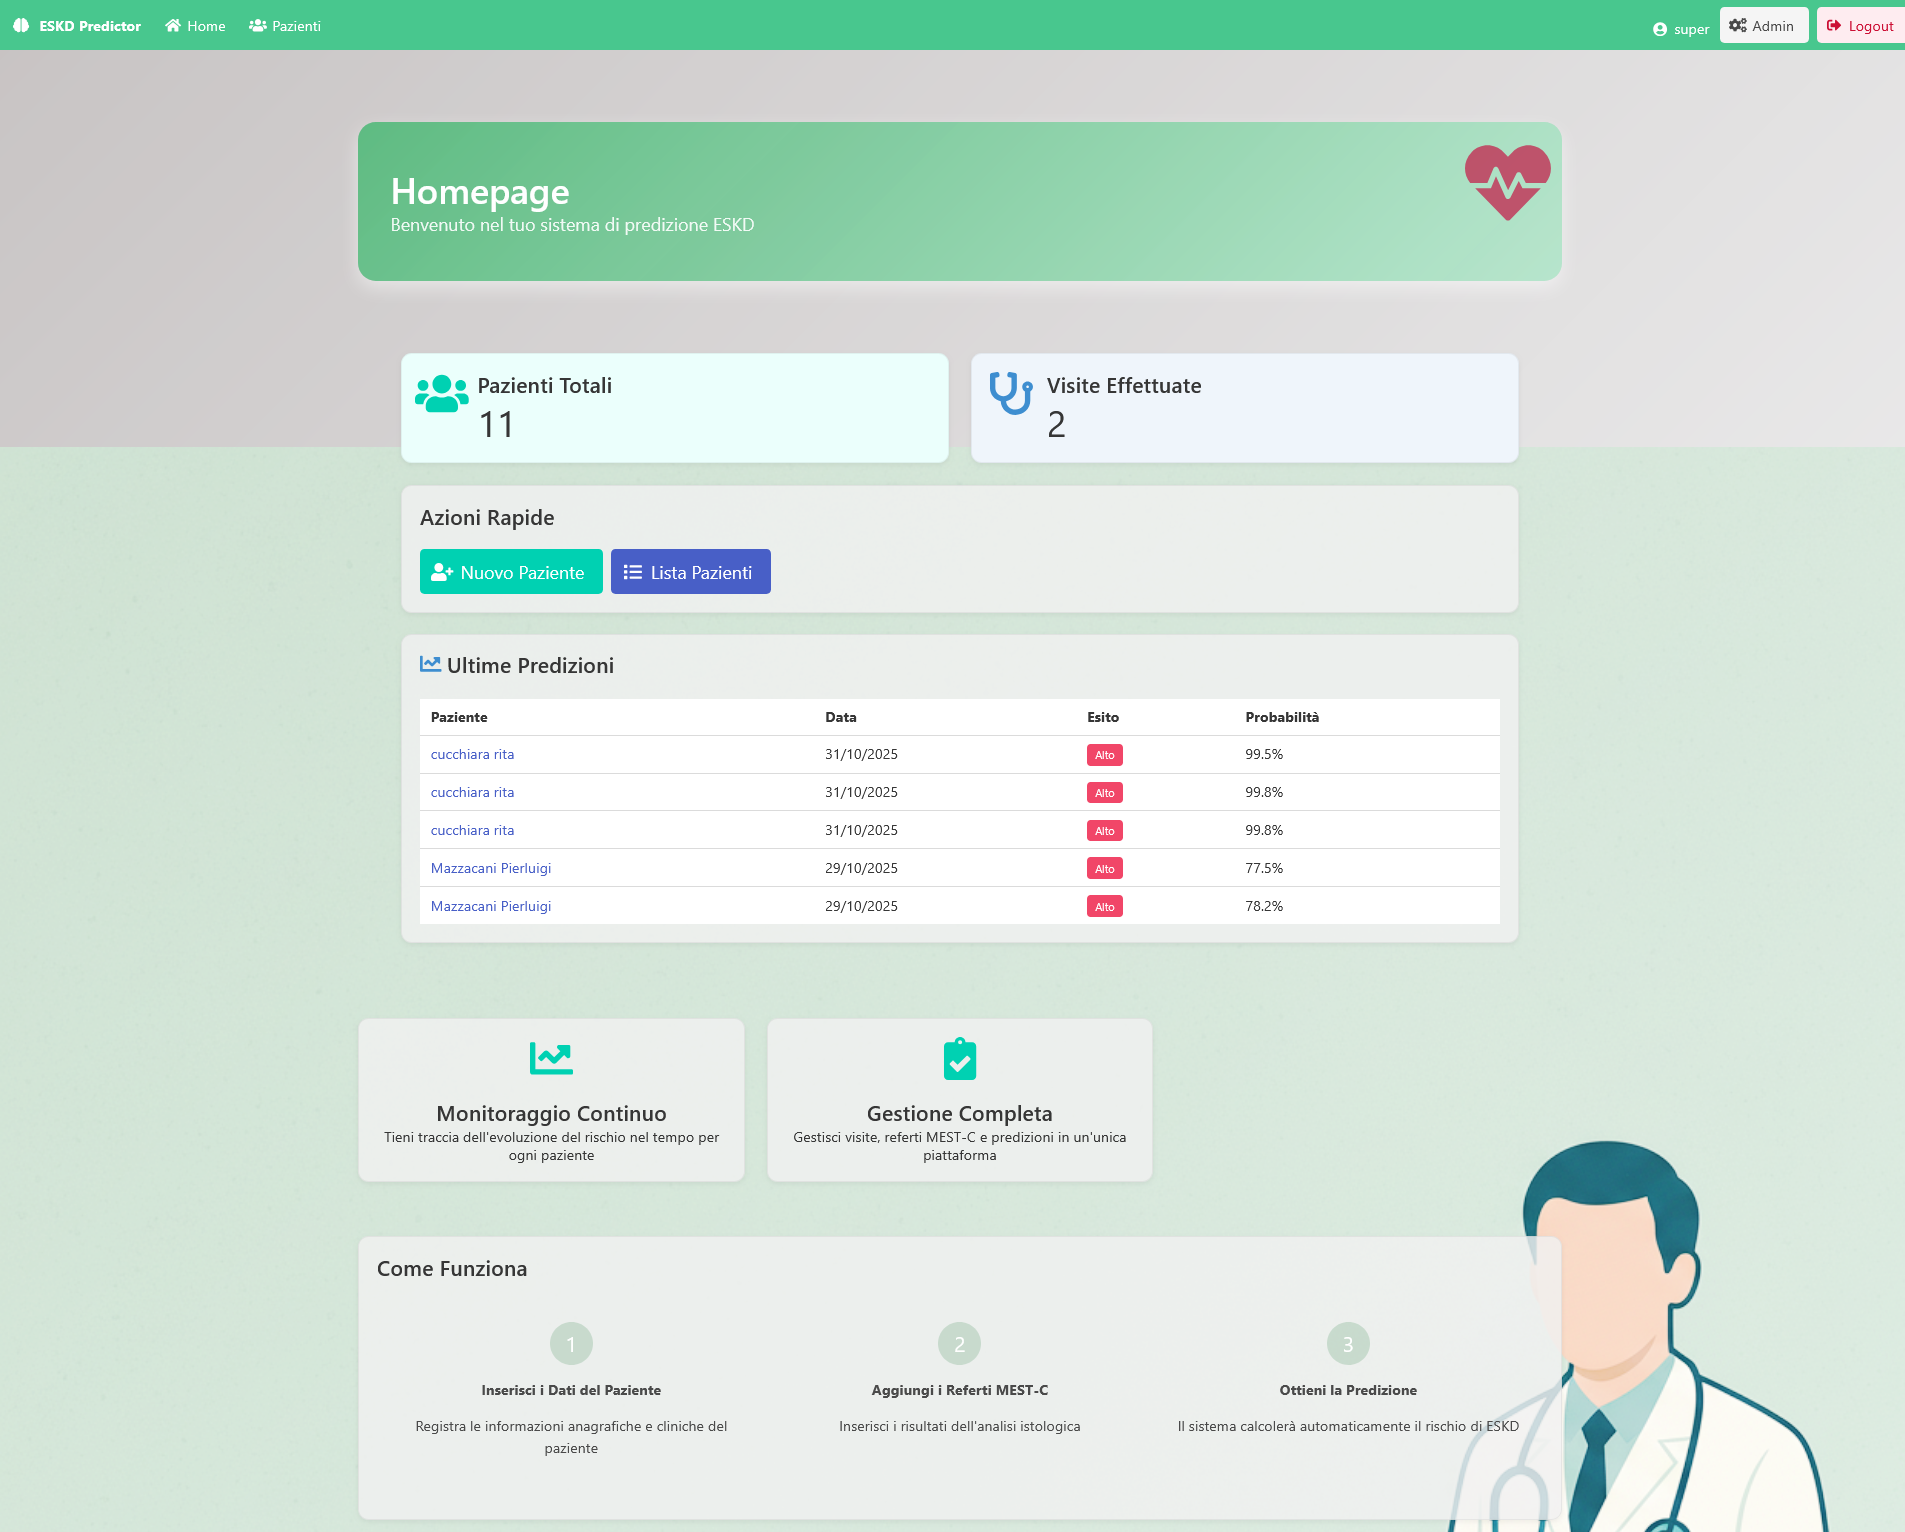
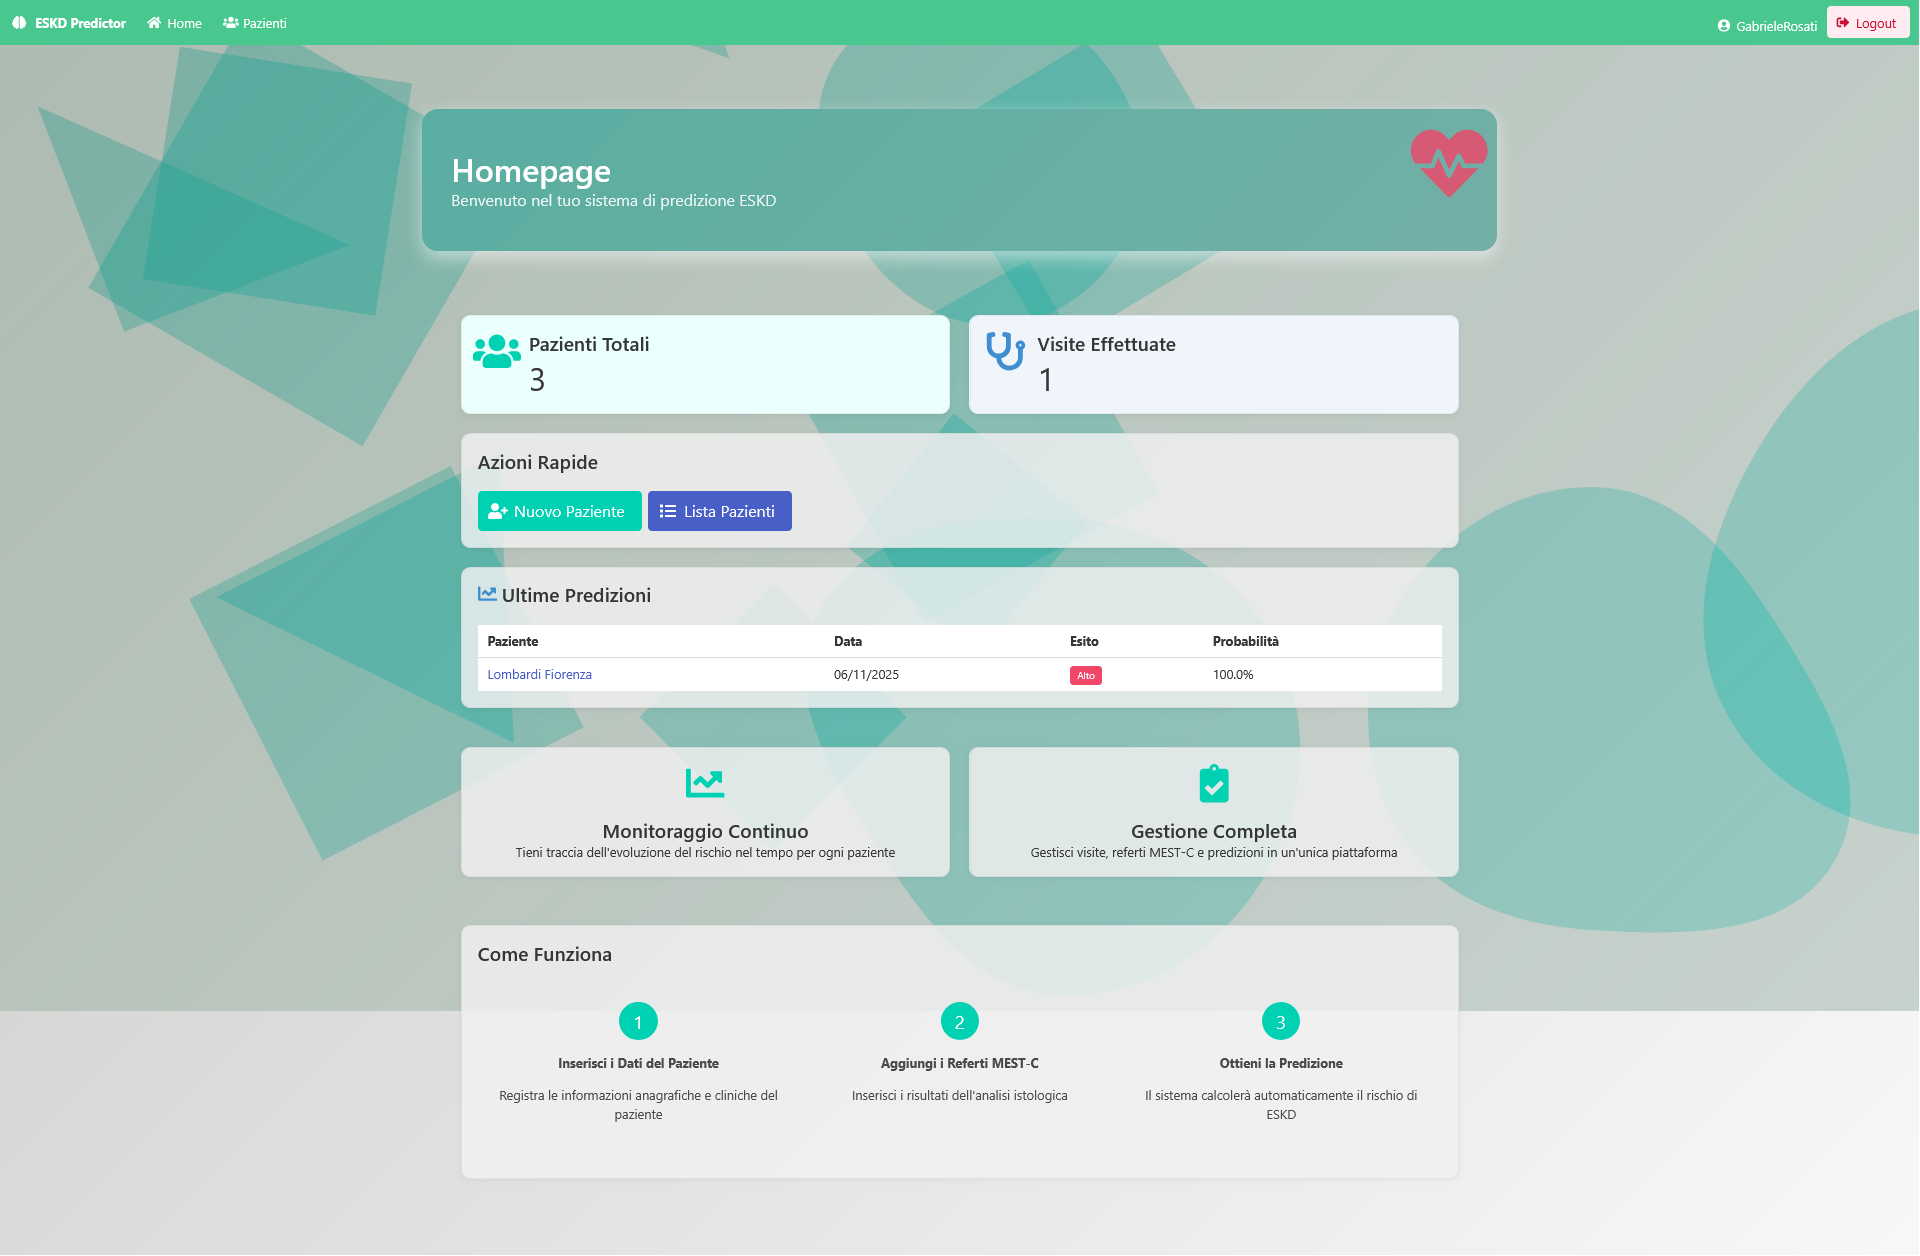
minor visual changes on home

diff --git a/prediction/templates/prediction/home.html b/prediction/templates/prediction/home.html
@@ -174,10 +174,13 @@
         </div>
     </div>
 </section>
-                <!-- Monitoraggio continuo + Gestione completa affiancati -->
-        <div class="columns mt-5">
-            <div class="column is-one-third">
-                <div class="box has-text-centered">
+
+<section class="section pt-0">
+    <div class="container">
+        <!-- Monitoraggio continuo + Gestione completa affiancati -->
+        <div class="columns">
+            <div class="column is-half">
+                <div class="box has-text-centered" style="height: 100%;">
                     <span class="icon is-large has-text-primary">
                         <i class="fas fa-chart-line fa-3x"></i>
                     </span>
@@ -188,8 +191,8 @@
                 </div>
             </div>
 
-            <div class="column is-one-third">
-                <div class="box has-text-centered">
+            <div class="column is-half">
+                <div class="box has-text-centered" style="height: 100%;">
                     <span class="icon is-large has-text-primary">
                         <i class="fas fa-clipboard-check fa-3x"></i>
                     </span>
@@ -248,7 +251,7 @@
         width: 3rem;
         height: 3rem;
         border-radius: 50%;
-        background-color: #9fc4aa77;
+        background-color: #00d1b2;
         color: white;
         font-size: 1.5rem;
         display: flex;
@@ -262,13 +265,13 @@
     }
 
     .hero.is-primary {
-        background: linear-gradient(135deg, #5ebb82 0%, #b4e5cbee 100%) !important;
+        background: linear-gradient(135deg, #59aea1 0%, #73afa6 100%) !important;
         color: white !important;
         border-radius: 20px;
         box-shadow: 0 8px 20px rgba(255, 255, 255, 0.493);
         margin: 2rem auto;  
         width: 100%;
-        color: #c23055 !important; /* testo blu scuro per contrasto */
+        color: #f14668 !important; /* testo blu scuro per contrasto */
     }
 
     .hero img {
